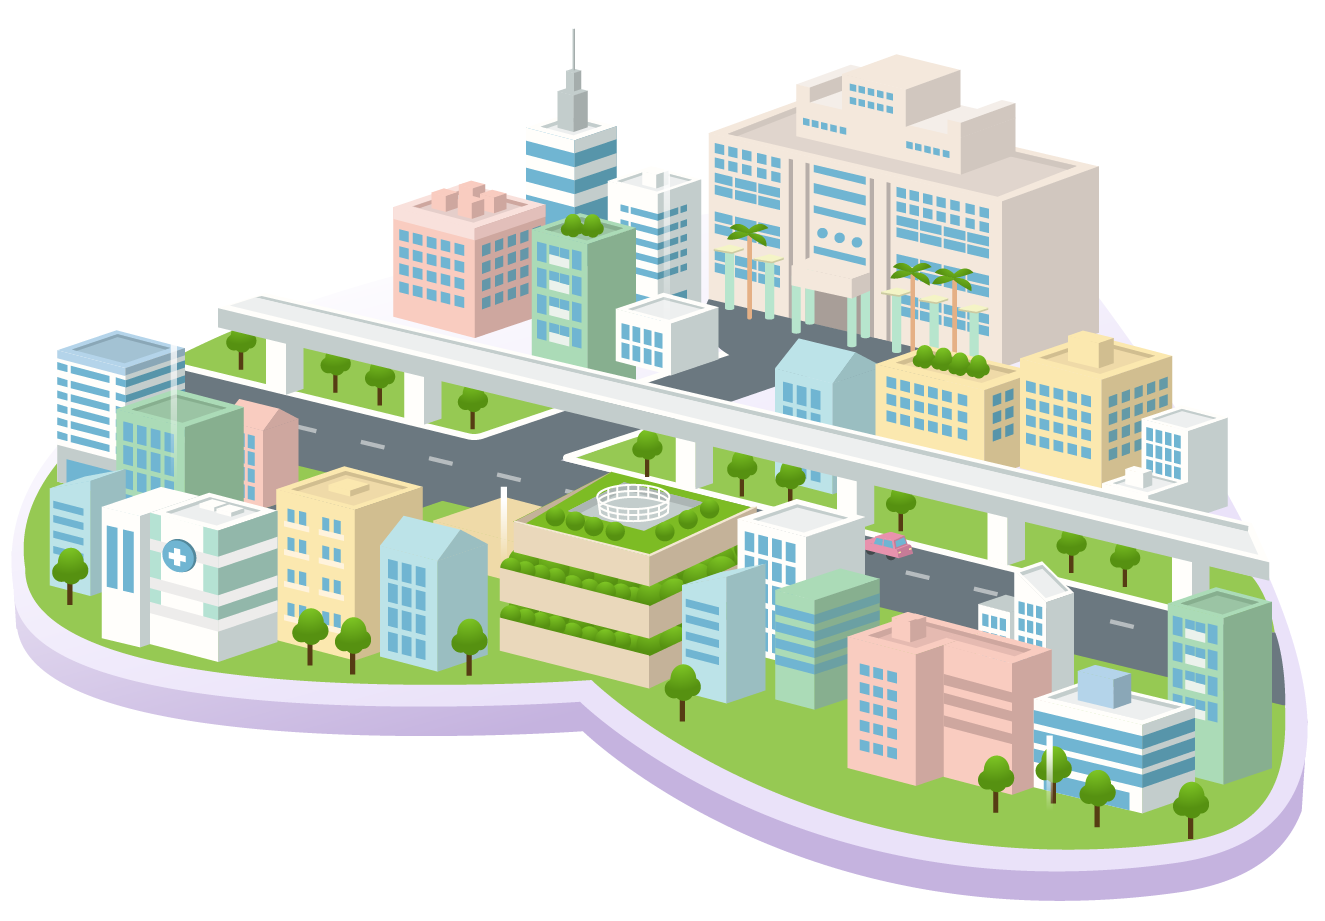
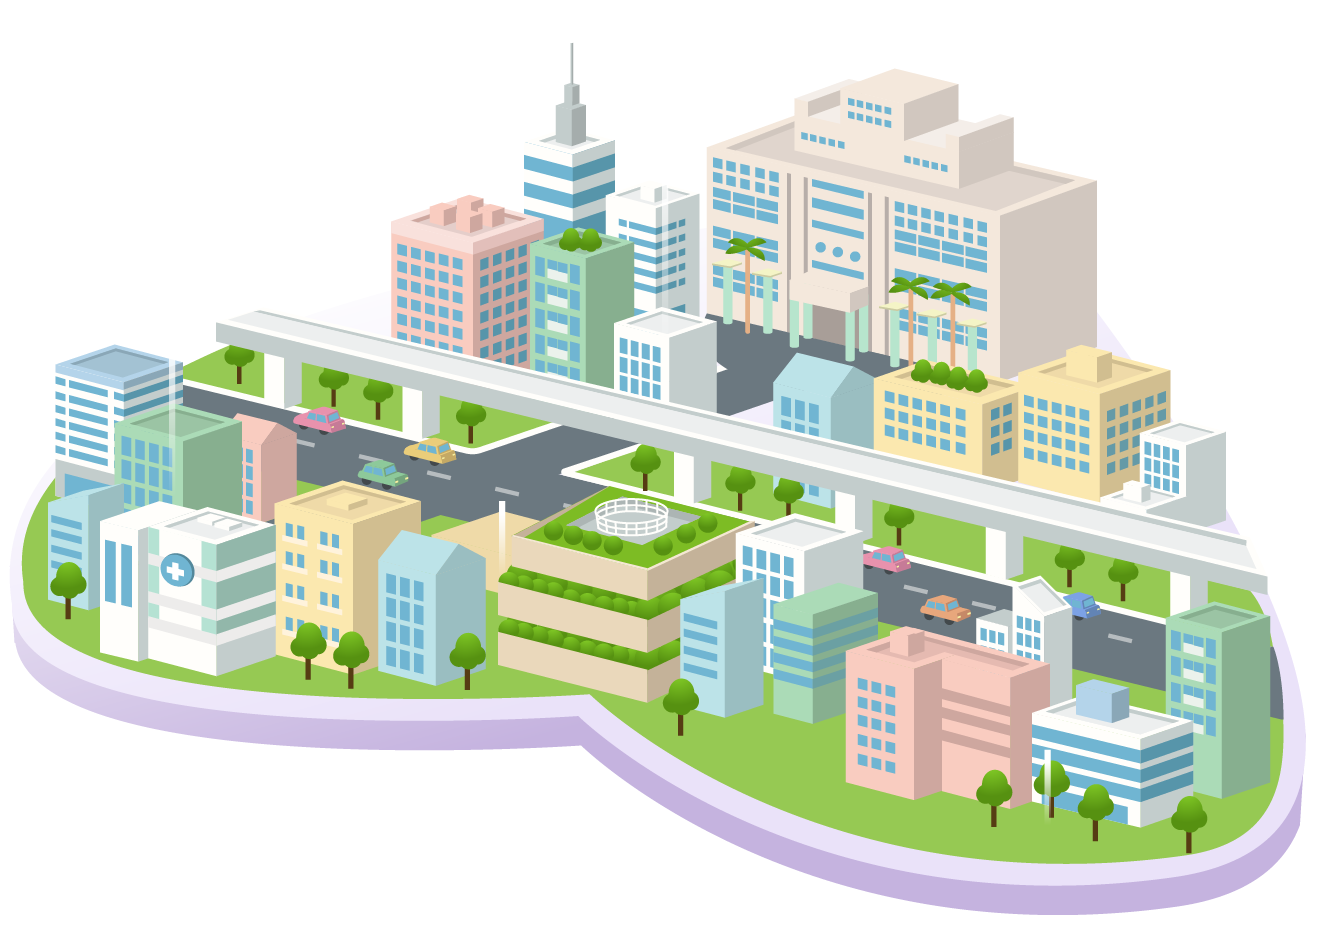
0908-smartCity-v4
0908-smartCity-v4

Changed region(s): [[0.0, 0.0608, 0.9947, 1.0]]

diff --git a/index.html b/index.html
@@ -31,7 +31,7 @@
 			<div class="position-relative">
 				<img class="lightLine" src="./img/lightLine-01.png" alt="">
 				<img class="trophy" src="./img/trophy.png" alt="">
-				<img class="city" src="./img/city-11.png" alt="">
+				<img class="city" src="./img/city-03.png" alt="">
 				<img class="MRT opacity" src="./img/MRT-05.png" alt="">
 				<img class="plane" src="./img/plan-04.png" alt="">
 				<!-- rob start -->
@@ -43,12 +43,35 @@
 				<!-- rob end -->
 				<!-- icon start -->
 				<div class="icon">
-					<img class="icon01" src="img/icon01.png" alt="">
-					<img class="icon02" src="img/icon02.png" alt="">
-					<img class="icon03" src="img/icon03.png" alt="">
-					<img class="icon04" src="img/icon04.png" alt="">
-					<img class="icon05" src="img/icon05.png" alt="">
-					<img class="icon06" src="img/icon06.png" alt="">
+					<div class="icon01-w">
+						<img class="icon01" src="img/icon01.png" alt="">
+						<img class="icon-text-01" src="img/icon-text-01.png" alt="">
+					</div>
+					<div class="icon02-w">
+						<img class="icon02" src="img/icon02.png" alt="">
+						<img class="icon-text-02" src="img/icon-text-02.png" alt="">
+					</div>
+					<div class="icon03-w">
+						<img class="icon03" src="img/icon03.png" alt="">
+						<img class="icon-text-03" src="img/icon-text-03.png" alt="">
+					</div>
+					<div class="icon04-w">
+						<img class="icon04" src="img/icon04.png" alt="">
+						<img class="icon-text-04" src="img/icon-text-04.png" alt="">
+					</div>
+					<div class="icon05-w">
+						<img class="icon05" src="img/icon05.png" alt="">
+						<img class="icon-text-05" src="img/icon-text-05.png" alt="">
+					</div>
+					<div class="icon06-w">
+						<img class="icon06" src="img/icon06.png" alt="">
+						<img class="icon-text-06" src="img/icon-text-06.png" alt="">
+					</div>
+					<!-- <img class="icon02" src="img/icon02.png" alt="">
+					<img class="icon03" src="img/icon03.png" alt=""> -->
+					<!-- <img class="icon04" src="img/icon04.png" alt=""> -->
+					<!-- <img class="icon05" src="img/icon05.png" alt="">
+					<img class="icon06" src="img/icon06.png" alt=""> -->
 				</div>
 				<!-- icon end -->
 			</div>
@@ -56,7 +79,7 @@
 		<!-- city end -->
 		<img class="bg" src="./img/indexBack_1.jpg" alt="">
 		<div class="flexd-right-button">
-			<a href="./exhibition.html"><img class="exhibition" src="./img/more-tool-exhibition.png" alt=""></a>
+			<a target="_blank" href="./exhibition.html"><img class="exhibition" src="./img/more-tool-exhibition.png" alt=""></a>
 			<img class="robotMessage-btn" src="./img/more-tool-robot.png" alt="">
 			<img class="robot-plane" src="./img/robotSample.png" alt="">
 		</div>
@@ -88,6 +111,74 @@
 	$(".robot-plane").click(function () {
 		$(".robot-plane").removeClass("show");
 	});
+
+
+	$(".icon01-w").mouseover(function () {
+		$(".icon-text-01").addClass("show");
+		$(".icon-text-01").addClass("icon-animation");
+		// $(".robot-plane").removeClass("show");
+	});
+
+	$(".icon01-w").mouseout(function () {
+		$(".icon-text-01").removeClass("show");
+		// $(".robot-plane").removeClass("show");
+	});
+
+	$(".icon02-w").mouseover(function () {
+		$(".icon-text-02").addClass("show");
+		$(".icon-text-02").addClass("icon-animation");
+		// $(".robot-plane").removeClass("show");
+	});
+
+	$(".icon02-w").mouseout(function () {
+		$(".icon-text-02").removeClass("show");
+		// $(".robot-plane").removeClass("show");
+	});
+
+	$(".icon03-w").mouseover(function () {
+		$(".icon-text-03").addClass("show");
+		$(".icon-text-03").addClass("icon-animation");
+		// $(".robot-plane").removeClass("show");
+	});
+
+	$(".icon03-w").mouseout(function () {
+		$(".icon-text-03").removeClass("show");
+		// $(".robot-plane").removeClass("show");
+	});
+
+	$(".icon04-w").mouseover(function () {
+		$(".icon-text-04").addClass("show");
+		$(".icon-text-04").addClass("icon-animation");
+		// $(".robot-plane").removeClass("show");
+	});
+
+	$(".icon04-w").mouseout(function () {
+		$(".icon-text-04").removeClass("show");
+		// $(".robot-plane").removeClass("show");
+	});
+
+	$(".icon05-w").mouseover(function () {
+		$(".icon-text-05").addClass("show");
+		$(".icon-text-05").addClass("icon-animation");
+		// $(".robot-plane").removeClass("show");
+	});
+
+	$(".icon05-w").mouseout(function () {
+		$(".icon-text-05").removeClass("show");
+		// $(".robot-plane").removeClass("show");
+	});
+
+	$(".icon06-w").mouseover(function () {
+		$(".icon-text-06").addClass("show");
+		$(".icon-text-06").addClass("icon-animation");
+		// $(".robot-plane").removeClass("show");
+	});
+
+	$(".icon06-w").mouseout(function () {
+		$(".icon-text-06").removeClass("show");
+		// $(".robot-plane").removeClass("show");
+	});
+
 
 
 </script>

diff --git a/styles/css.css b/styles/css.css
@@ -89,7 +89,7 @@ body {
 .city-wrap .city {
     position: absolute;
     right: 24px;
-    top: -80px;
+    top: -50px;
     width: 100%;
     z-index: -99;
 }
@@ -137,7 +137,7 @@ body {
     left: 114px;
     top: 148px;
     animation-name: rightMove, bottomMove;
-    animation-duration: 8s;
+    animation-duration: 10s;
     animation-iteration-count: infinite;
     animation-timing-function: ease-in-out;
     transform: scale(0.8, 0.8);
@@ -335,29 +335,77 @@ body {
 /* icon start */
 .icon {
     position: absolute;
-    right: 400px;
+    right: 651px;
     top: 300px;
 }
 
-.icon01 {
+.icon01-w,.icon02-w,.icon03-w,.icon04-w,.icon05-w,.icon06-w {
     position: relative;
-    right: -55px;
-    top: -230px;
-    animation: 3s;
+    width: fit-content;
 }
 
-.icon01:hover {
-    top: -240px;
+
+.icon01,.icon-text-01 {
+    position: absolute;
+    left: -390px;
+    top: -210px;
+    animation: 3s;
+    display: inherit;
+} 
+
+.icon-text-01,.icon-text-04,.icon-text-05,.icon-text-02,.icon-text-06,.icon-text-03 {
+    display: none;
+} 
+
+.icon-animation{
+    -webkit-filter: brightness(110%);
+    /* Safari */
+    filter: brightness(110%);
     transform: scale(1.05);
-}
+    transition: .6;
+    -webkit-transition: .6;
+    -moz-transition: .6;
+    -ms-transition: .6;
+    -o-transition: .6;
+} 
 
-.icon02 {
-    position: relative;
-    right: -210px;
-    top: -40px;
-    animation: 3s;
-}
 
+
+.icon02,.icon-text-02 {
+    position: absolute;
+    right: 4px;
+    top: -25px;
+} 
+
+.icon03,.icon-text-03 {
+    position: absolute;
+    right: -464px;
+    top: 160px;
+} 
+
+.icon04,.icon-text-04 {
+    position: absolute;
+    right: -133px;
+    top: -350px;
+} 
+
+.icon05,.icon-text-05 {
+    position: absolute;
+    right: -465px;
+    top: -384px;
+} 
+
+.icon06,.icon-text-06 {
+    position: absolute;
+    right: -587px;
+    top: -219px;
+} 
+
+
+
+
+
+/* 
 .icon02:hover {
     top: -50px;
     transform: scale(1.05);
@@ -373,16 +421,16 @@ body {
 .icon03:hover {
     top: 140px;
     transform: scale(1.05);
-}
+} */
 
-.icon04 {
+/* .icon04 {
     position: relative;
     right: -103px;
     top: -370px;
     animation: 3s;
-}
+} */
 
-.icon04:hover {
+/* .icon04:hover {
     top: -380px;
     transform: scale(1.05);
 }
@@ -409,7 +457,7 @@ body {
 .icon06:hover {
     top: -370px;
     transform: scale(1.05);
-}
+} */
 
 .icon img {
     cursor: pointer;
